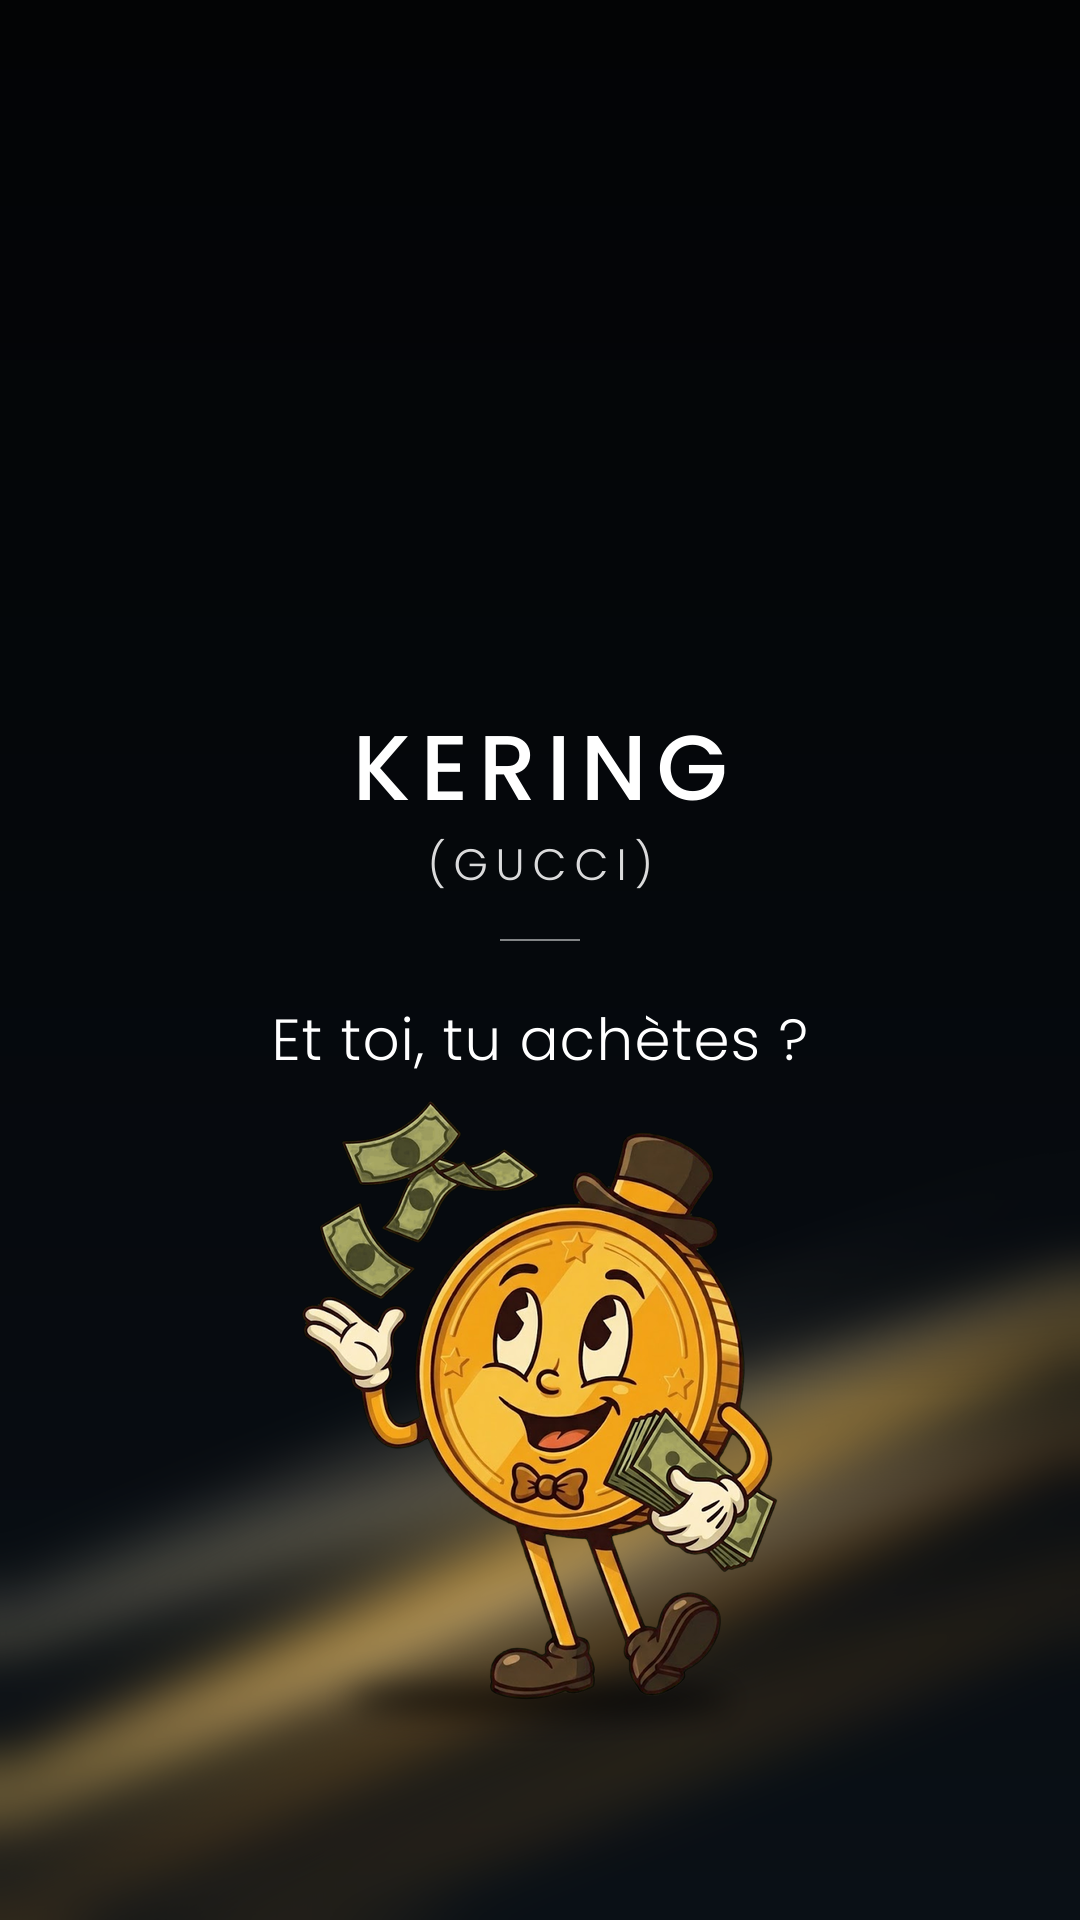
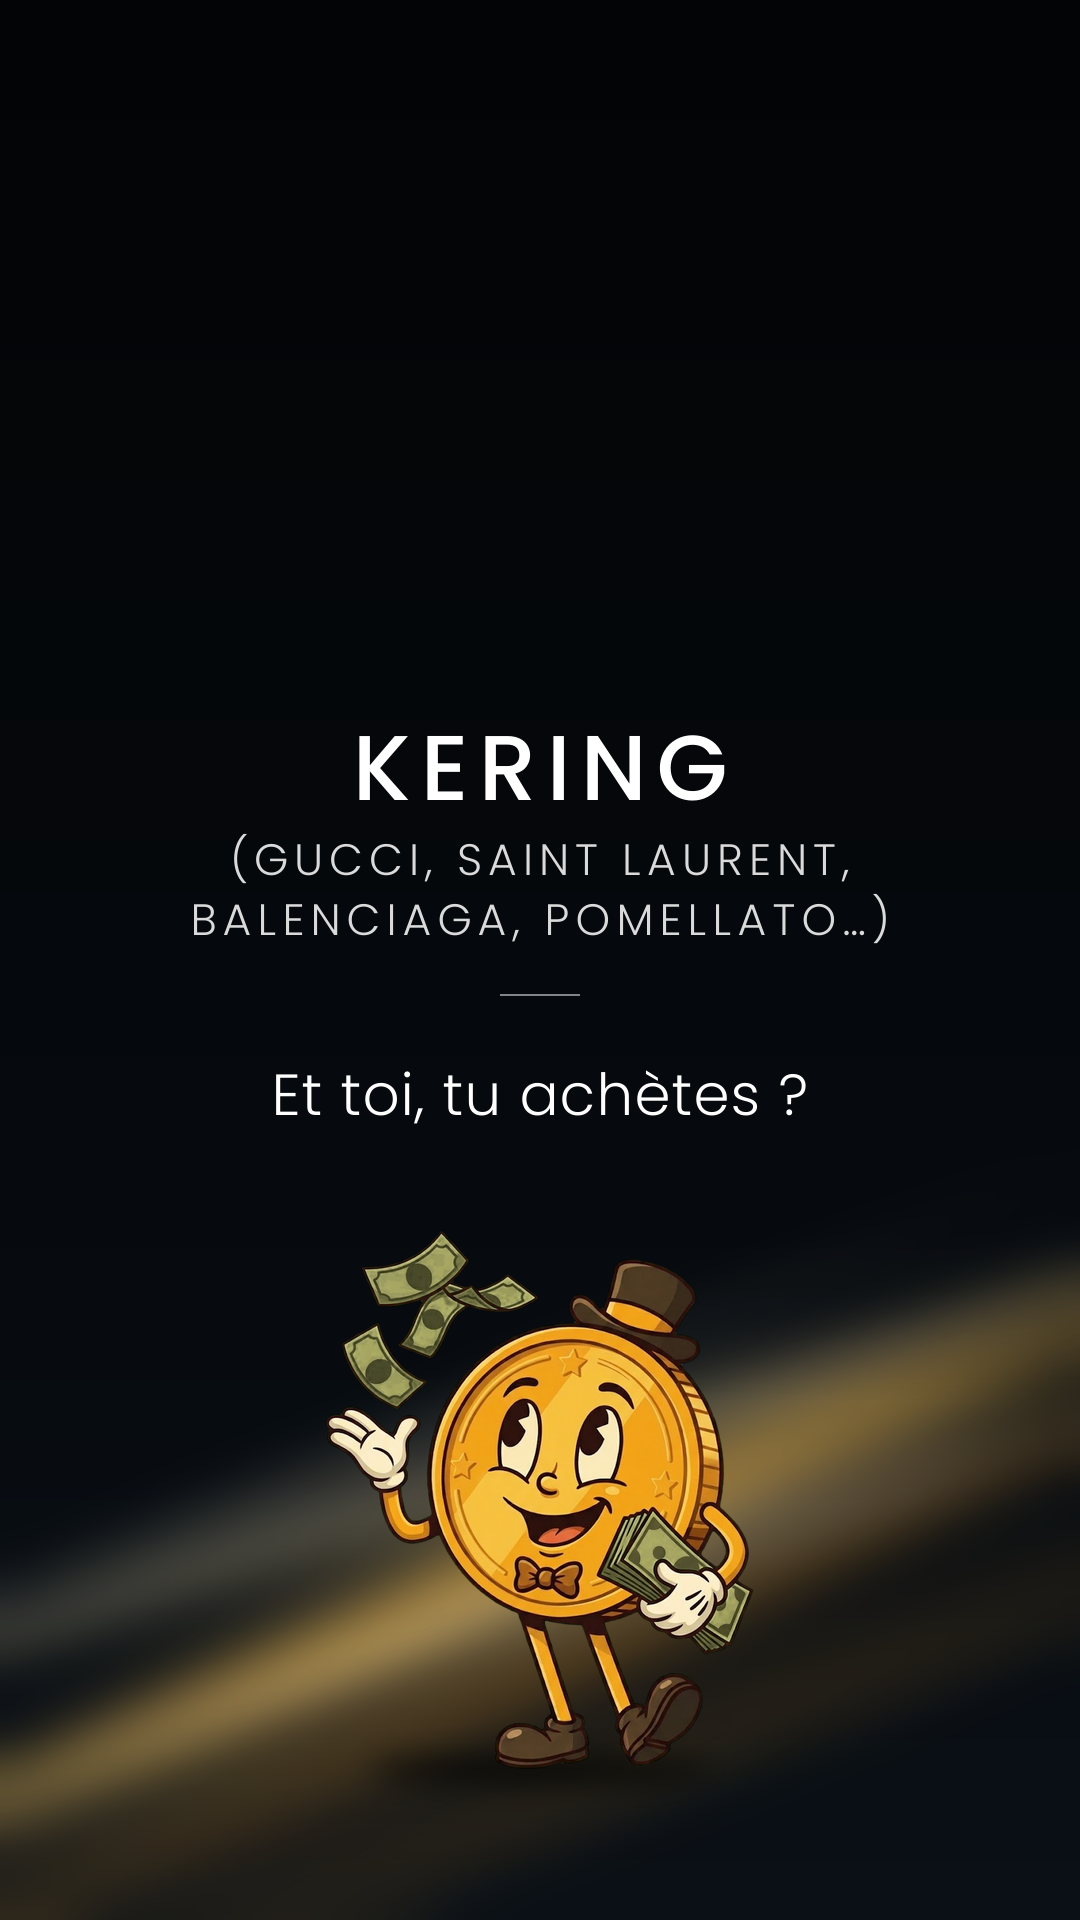
Couverture Kering : marques du groupe sur deux lignes
Claude-Session: https://claude.ai/code/session_01VFT2ZKYV9NwmFvCsfcTKi7

diff --git a/lib/cards_lib.py b/lib/cards_lib.py
@@ -23,7 +23,10 @@ def card(name,slot,path,sub=None):
         sz_=fit(c,name,"Poppins Medium",34,10,880); put(c,name,930,"Poppins Medium",sz_,'FFFFFF',10,.85); qy=1090
     else:
         sz_=fit(c,name,"Poppins Medium",92,10,900); put(c,name,800,"Poppins Medium",sz_,'FFFFFF',10); ly=860; qy=1000
-        if sub: put(c,sub,880,"Poppins Light",44,'FFFFFF',8,.85); ly=940; qy=1060     # sous-titre facultatif, ex. « (GUCCI) »
+        if sub:                                                                       # sous-titre facultatif, une ou plusieurs lignes, ex. « (GUCCI) »
+            lines=[sub] if isinstance(sub,str) else list(sub); fs=min(fit(c,l,"Poppins Light",44,6,880) for l in lines)
+            for i,l in enumerate(lines): put(c,l,875+i*(fs+16),"Poppins Light",fs,'FFFFFF',6,.85)
+            ly=875+(len(lines)-1)*(fs+16)+60; qy=ly+120
         c.new_path(); c.move_to(500,ly); c.line_to(580,ly); c.set_source_rgba(*hx('FFFFFF',.5)); c.set_line_width(2); c.stroke()
     put(c,"Et toi, tu achètes ?",qy+(0 if not slot else 0),"Poppins Light",58,'FFFFFF',1)
     s.write_to_png(path)

diff --git a/episodes/2026-10-27_kering/couverture.py b/episodes/2026-10-27_kering/couverture.py
@@ -19,11 +19,11 @@ def bg(c):
     c.set_operator(cairo.OPERATOR_ADD); c.set_source_surface(src); c.paint(); c.set_operator(cairo.OPERATOR_OVER)
 cards.bg = bg
 for slot, name in ((False, 'couverture.png'), (True, 'couverture_emplacement_logo.png')):
-    path = f'{HERE}/{name}'; cards.card("KERING", slot, path, sub="(GUCCI)")
+    path = f'{HERE}/{name}'; cards.card("KERING", slot, path, sub=("(GUCCI, SAINT LAURENT,", "BALENCIAGA, POMELLATO…)"))
     if slot: continue
     import rig
     im = Image.open(path).convert('RGBA'); ch = rig.character("billets", 0, False, 0, 0, 0); ch = ch.crop(ch.getbbox())
-    h = 600; ch = ch.resize((int(ch.width*h/ch.height), h), Image.LANCZOS); cx, feet = 540, 1700
+    h = 540; ch = ch.resize((int(ch.width*h/ch.height), h), Image.LANCZOS); cx, feet = 540, 1770
     sh = Image.new('L', (W, H), 0); ImageDraw.Draw(sh).ellipse((cx-ch.width*.4, feet-16, cx+ch.width*.4, feet+14), fill=170)
     im.paste((0, 0, 0, 255), (0, 0), sh.filter(ImageFilter.GaussianBlur(14)))
     im.alpha_composite(ch, (int(cx-ch.width/2), feet-h)); im.convert('RGB').save(path)
